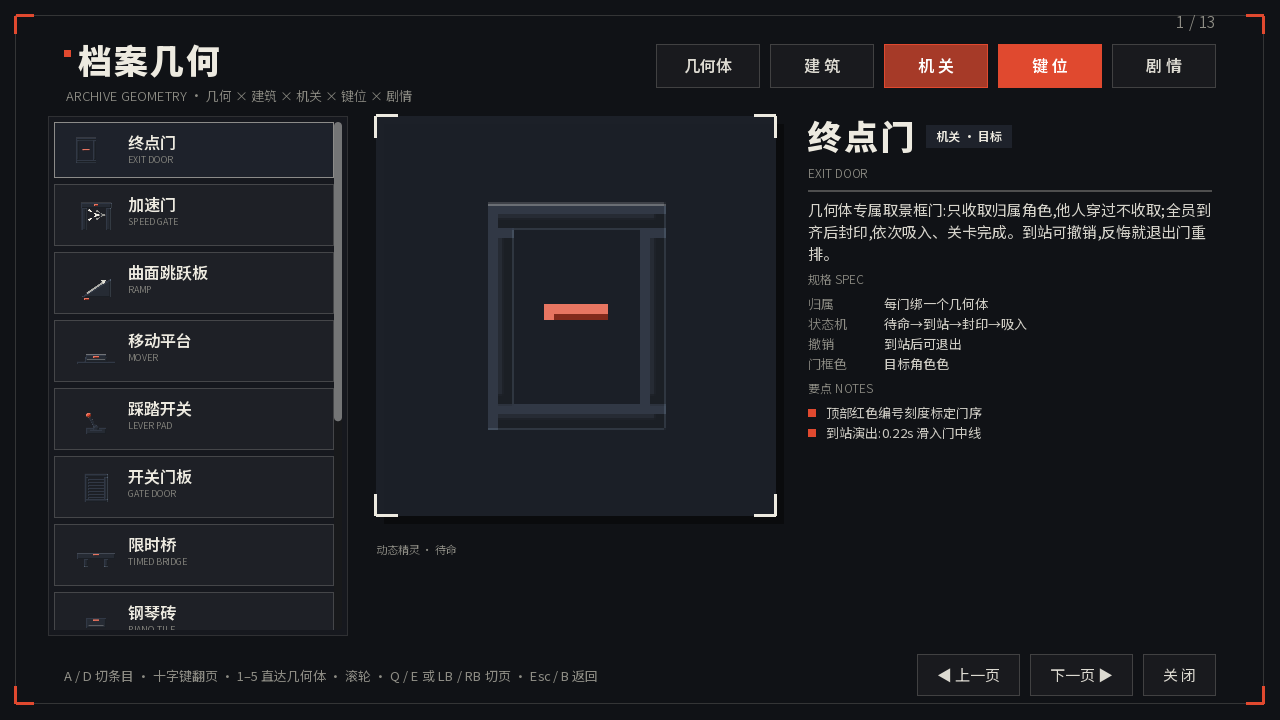
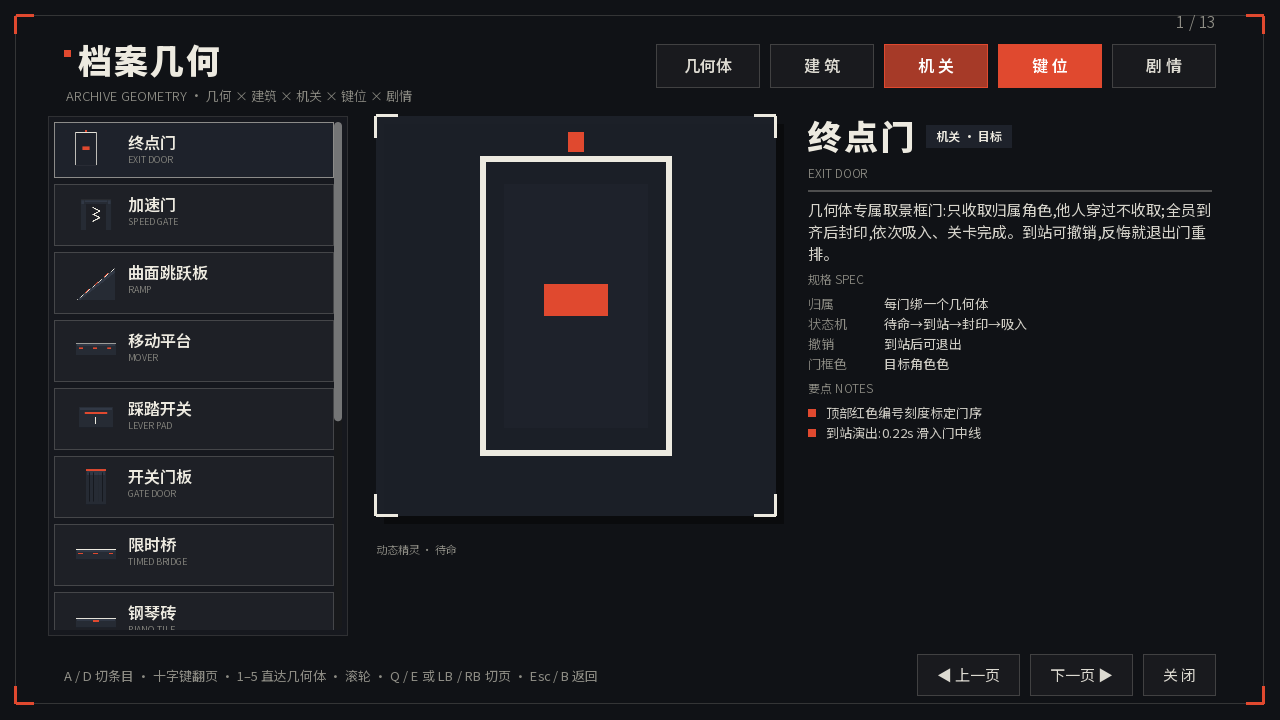
画册 v0.48 素材对齐重截:12 屏受影响画面落盘 docs/ui(boot 全屏署名换纯文字表述/菜单漂浮图集徽标/剧目行徽标/档案五页签平涂插画与键帽图集/局内开场 HUD/双人双描边 chips;keys/story 两屏与新截像素一致证实已现势)+ 图册 README 换代(重截记录、署名 caption、建筑页签正典帧表述)——补 v0.48.0 漏掉的「改完必须重截对应屏」纪律欠账

diff --git a/docs/ui/README.md b/docs/ui/README.md
@@ -1,6 +1,6 @@
 # UI/UX 图册 · UI GALLERY
 
-> v0.29.1 全量界面截图归档 · **v0.47.1 全量重截**(v0.46 素材重绘后全屏刷新;boot 两屏未受影响沿用旧图):每屏 1280×720 设计稿基准,标注入口、主要
+> v0.29.1 全量界面截图归档 · **v0.47.1 全量重截** · **v0.48.1 重截受素材重构影响的 12 屏**(v0.48 SVG 退役图集化 / 档案平涂插画 / 纯文字署名;boot 标记屏与设置、房间页无图标调用沿用):每屏 1280×720 设计稿基准,标注入口、主要
 > 按钮/交互与状态对应。规范权威 = `docs/design/ui-flow.md`(六大 UX 空间、
 > 页面规范模板、九态 UNKNOWN 链)与 `docs/ui/00-ui-master-plan.md`;
 > 本图册是**视觉验收基准**,改任何 UI 前先对照,改完必须重截对应屏。
@@ -13,7 +13,7 @@
 | 图 | 内容 | 交互 |
 |---|---|---|
 | ![boot](ui_01_boot_mark.png) | 红色标记块硬立 + 「几何构成」逐字落位 | 点按/任意键跳过 |
-| ![boot2](ui_01b_boot_full.png) | 英文名 + 定位语 + 刻线横扫;底部引擎署名(**Godot 官方 logo**,非游戏图标) | — |
+| ![boot2](ui_01b_boot_full.png) | 英文名 + 定位语 + 刻线横扫;底部引擎署名(**POWERED BY GODOT ENGINE 纯文字**;v0.48.0 起 logo 退役,CC BY 出处保留) | — |
 
 ## 标题菜单 MENU(Main.State.MENU)
 
@@ -28,7 +28,7 @@
 |---|---|
 | ![geo](ui_05_archive_geo.png) | 几何体档案页签(左列五位,右详情:肖像/数值/台词) |
 | ![keys](ui_10_archive_keys.png) | 键位指南页签(**多端一册**:键鼠/手柄/触屏同册对照) |
-| ![bld](ui_11_archive_bld.png) | 建筑页签(v0.46 重绘正典帧;左列图鉴,右规格/要点) |
+| ![bld](ui_11_archive_bld.png) | 建筑页签(v0.48 平涂重构正典帧;左列图鉴,右规格/要点) |
 | ![mech](ui_11b_archive_mech.png) | 机关页签(同构;动态帧 f2/portal 见 `--panelshot`) |
 | ![story](ui_12_archive_story.png) | 剧情回顾页签(全文本阅读器,台词按角色着色) |
 | ![storylist](ui_12b_archive_story_list.png) | 剧情目录页(五幕 + 落幕篇目,节拍预览) |
